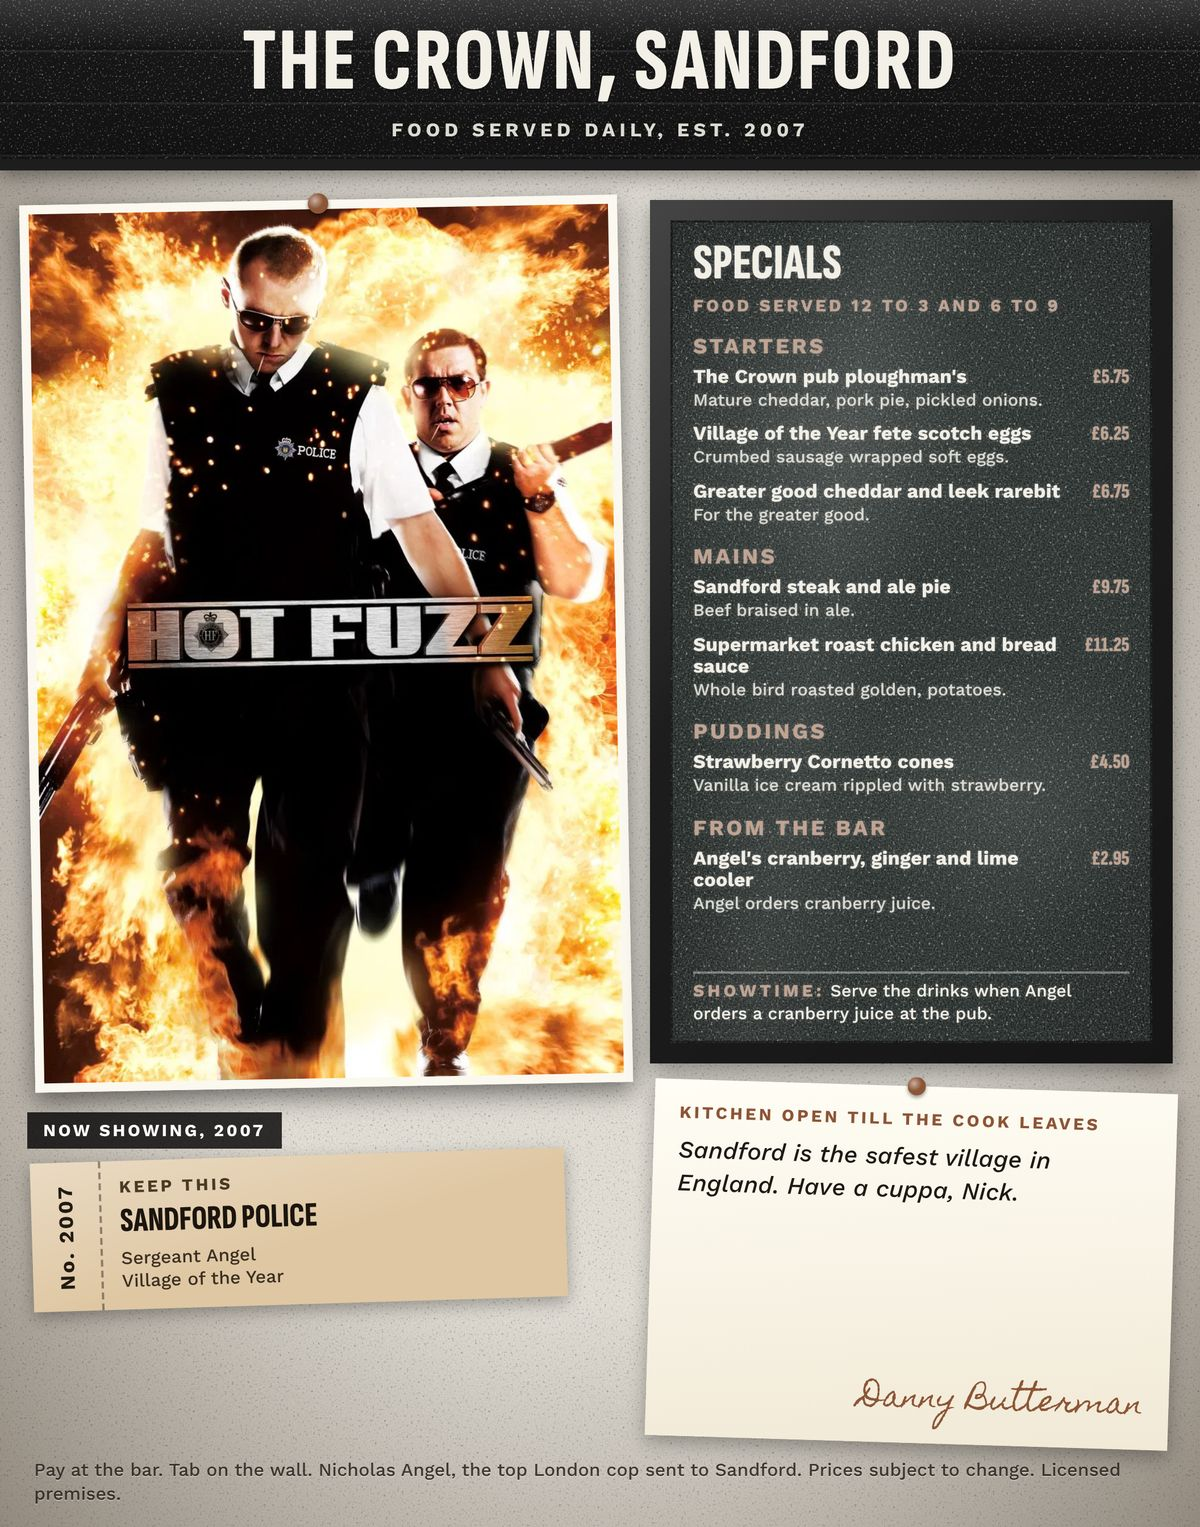
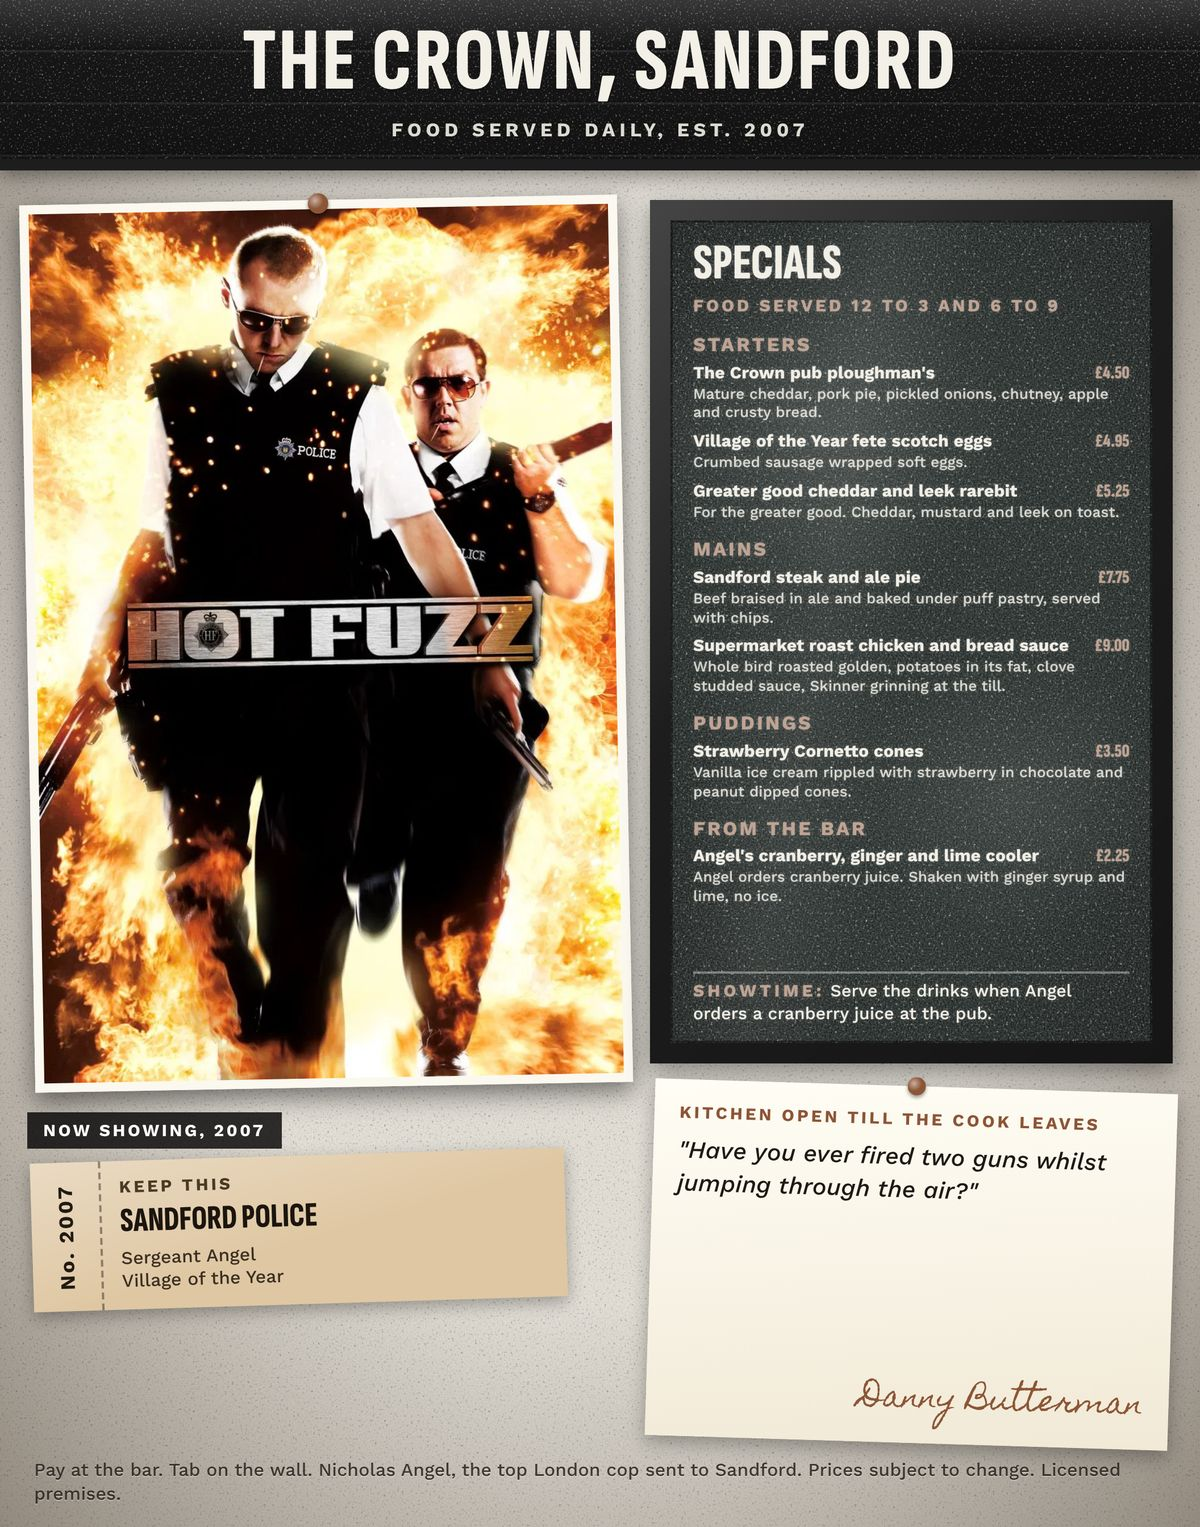
Review 32: pub full notes at a 13px floor
Claude-Session: https://claude.ai/code/session_01W3UAnF3374TxihYSznsWKE

Changed region(s): [[0.555, 0.2155, 0.9558, 0.6156], [0.555, 0.7387, 0.925, 0.8003]]

diff --git a/menu-formats/pub.js b/menu-formats/pub.js
@@ -228,7 +228,8 @@ var numPrice=(!String(fl.number||"").replace(/\D/g,"")||/^(18|19|20)\d\d$/.test(
   var FS=null;
   /* the film's notes come first: try every size with two-line then one-line notes before any size without them */
   outer:for(const nl of (NEED===9?[9]:NEED===2?[2]:[1,0]))for(let s=1.07;s>=(nl?.39:.55);s-=.05){/* 15 Nov: with notes, down to the type floor with gaps of 6px */
-    var base={D:Math.max(17,Math.round(28*s)),N:Math.max(15,Math.round(21*s)),S:Math.max(19,Math.round(27*s)),G:Math.max(4,Math.round(16*s))};
+    /* review 32: whole notes may go to 13px (about 9 point on the 1240 wide board) before any note is cut */
+    var base={D:Math.max(nl===9?15:17,Math.round(28*s)),N:Math.max(nl===9?13:15,Math.round(21*s)),S:Math.max(nl===9?17:19,Math.round(27*s)),G:Math.max(4,Math.round(16*s))};
     {const FSx=Object.assign({},base,{nl});
       var best=null;for(const sp of splits){const t=Math.max(...sp.map(cs=>measure(cs,FSx)));if(!best||t<best.t)best={t,sp}}if(best.t<=MH){FS=Object.assign(FSx,{t:best.t});colsArr=best.sp;break outer}}
   }
